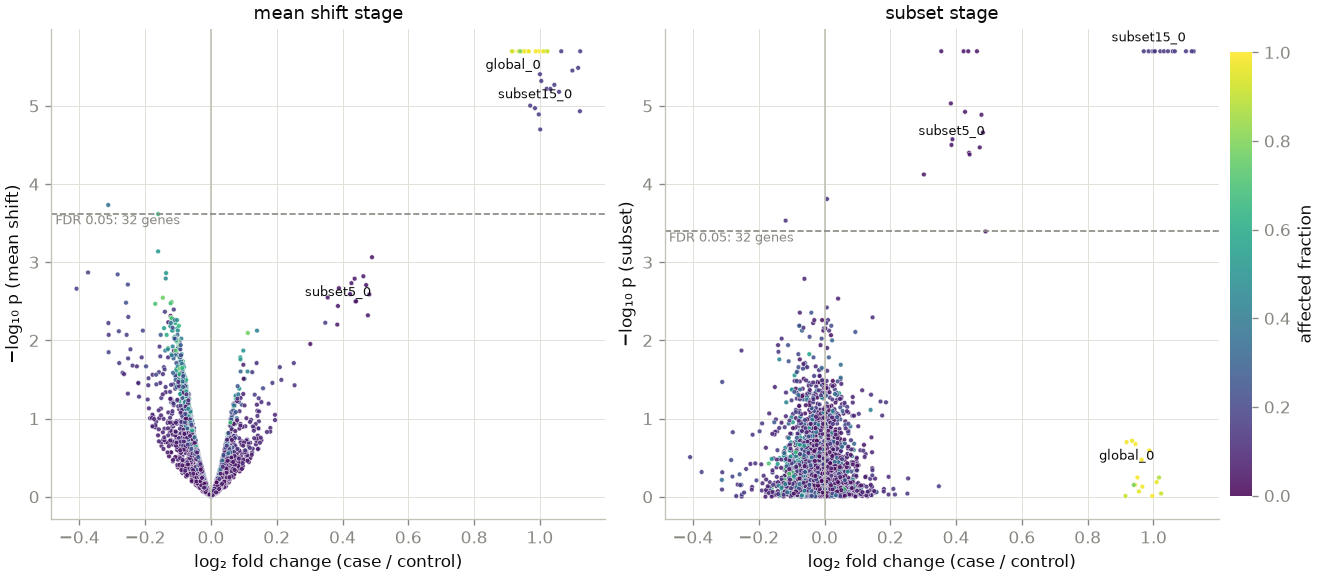
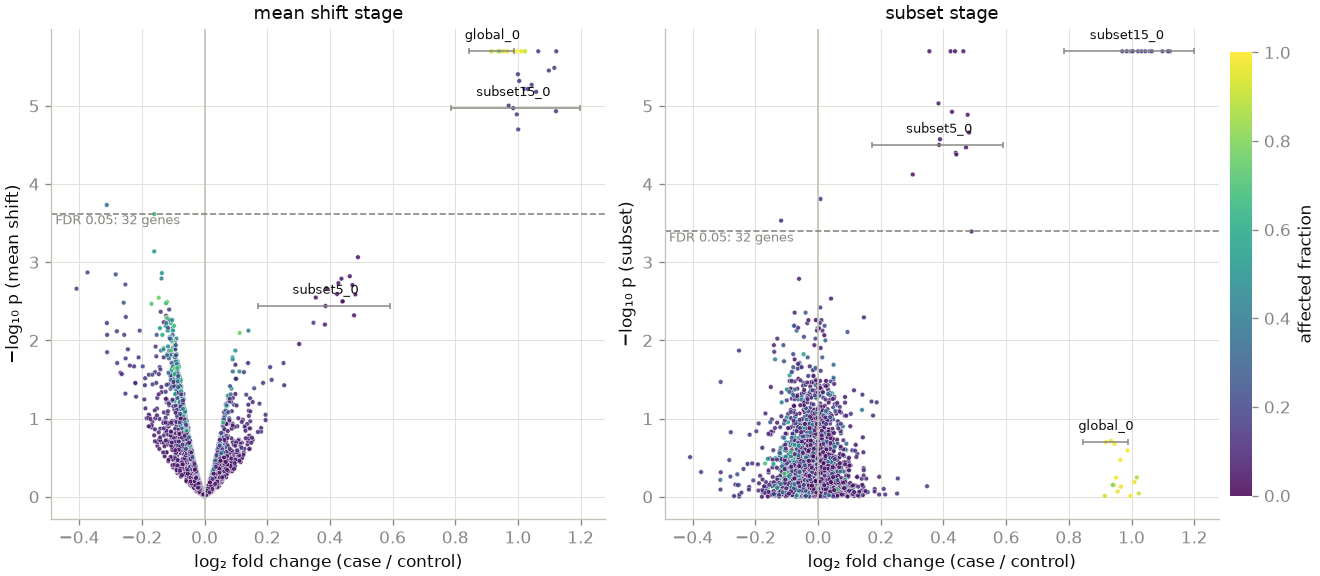
C7: labels get placed, not merely offset
label=n names the top n genes, and on a real cohort those n land in a tight
cluster -- thousands of genes tie at the p-value floor, so the most significant
share a position and their text stacks. C2 made it visibly worse by drawing
error bars through the stack, which is why the plan put this last.

Replaced the alternate-above-and-below rule, which could only ever separate
two, with a greedy slot assignment: most significant first, each label taking
the first of twelve candidate positions whose box clears every box already
placed, falling back to the furthest slot when none is free. Priority matches
_label_mask's own ranking, so the gene a reader most wants named gets the best
position -- straight above.

Measured, not asserted from the algorithm. Overlapping label pairs on the
README's dataset, before -> after:

  volcano, mean-shift stage,  8 labels   24 -> 1
  volcano, subset stage,      8 labels   28 -> 0
  two-stage plot,             8 labels   24 -> 0
  subset magnitude vs affected fraction, 12 labels   25 -> 3

That last row is the honest limit and is documented as one: twelve labels on
near-coincident points need more width than the cluster has, and no placement
rule invents space. adjustText was not brought in -- it would not have fixed
that row either, and it would have been a fifth optional dependency.

The arithmetic runs in normalized axis units in the data layer and converts
back to data coordinates, so BOTH BACKENDS PLACE TEXT IDENTICALLY and neither
[…]

diff --git a/tests/test_plotting.py b/tests/test_plotting.py
@@ -781,7 +781,7 @@ def test_both_backends_label_by_the_metadata_column(res_meta, backend):
         assert any(t.startswith("SYM") for t in texts)
         assert not any(t.startswith("ENSG") for t in texts)
     else:
-        labels = [t for tr in fig.data if tr.mode == "text" for t in (tr.text or [])]
+        labels = [str(t) for tr in fig.data if tr.mode == "text" for t in np.asarray(tr.text)]
         assert labels and all(str(t).startswith("SYM") for t in labels)
         # The hover carries the requested columns as text, ahead of the numbers.
         cloud = fig.data[0]
@@ -791,6 +791,85 @@ def test_both_backends_label_by_the_metadata_column(res_meta, backend):
     assert wade.plot_gene(res_meta, gene=["ENSG00006"], meta="gene_name",
                           backend=backend) is not None
     assert wade.plot_stages(res_meta, label=2, meta="gene_name", backend=backend) is not None
+
+
+# ---------------------------------------------------------------------------
+# Label de-collision
+
+
+def _overlapping_label_pairs(data):
+    """How many pairs of drawn labels overlap, in the normalized units the
+    placement reasons in. The figure's actual defect, counted."""
+    import itertools
+
+    from wade.plotting.data import _LABEL_H, _LABEL_W, _axis_span, _label_positions
+
+    idx, dx, dy = _label_positions(data)
+    x = np.asarray(data.x, dtype=np.float64)
+    y = np.asarray(data.y, dtype=np.float64)
+    x0, xw = _axis_span(x)
+    y0, yw = _axis_span(y)
+    u = (x[idx] + dx - x0) / xw
+    v = (y[idx] + dy - y0) / yw
+    return sum(1 for a, b in itertools.combinations(range(idx.size), 2)
+               if abs(u[a] - u[b]) < _LABEL_W and abs(v[a] - v[b]) < _LABEL_H)
+
+
+def test_labels_are_placed_without_colliding(res):
+    """The alternate-above-and-below scheme this replaced left 24 overlapping
+    pairs out of 8 labels on this data; the slot assignment leaves 0–1. Numbers
+    and method are in ``docs/plotting.md``."""
+    for d in (P.volcano_data(res, "mean_shift", label=8),
+              P.volcano_data(res, "subset", label=8),
+              P.stages_data(res, label=8)):
+        assert _overlapping_label_pairs(d) <= 1
+
+    # Displacement is bounded, because there are no leader lines to reconnect a
+    # label that wandered: at most the furthest slot, on each axis.
+    from wade.plotting.data import _LABEL_H, _LABEL_SLOTS, _LABEL_W, _axis_span, _label_positions
+    d = P.volcano_data(res, "subset", label=12)
+    idx, dx, dy = _label_positions(d)
+    _, xw = _axis_span(np.asarray(d.x, dtype=np.float64))
+    _, yw = _axis_span(np.asarray(d.y, dtype=np.float64))
+    assert np.abs(dx).max() <= max(abs(sx) for sx, _ in _LABEL_SLOTS) * _LABEL_W * xw + 1e-12
+    assert np.abs(dy).max() <= max(abs(sy) for _, sy in _LABEL_SLOTS) * _LABEL_H * yw + 1e-12
+
+
+def test_label_placement_is_deterministic_and_prioritises_the_top_gene(res):
+    from wade.plotting.data import _LABEL_H, _axis_span, _label_positions
+
+    d = P.volcano_data(res, "subset", label=6)
+    a, b = _label_positions(d), _label_positions(d)
+    for first, second in zip(a, b):
+        np.testing.assert_array_equal(first, second)
+    # The most significant labelled gene keeps the best slot: straight above.
+    idx, dx, dy = a
+    k = int(np.argmax(np.nan_to_num(d.y[idx], nan=-np.inf)))
+    _, yw = _axis_span(np.asarray(d.y, dtype=np.float64))
+    assert dx[k] == pytest.approx(0.0)
+    assert dy[k] == pytest.approx(_LABEL_H * yw)
+
+
+@pytest.mark.parametrize("backend", P.available_backends())
+def test_both_backends_place_labels_at_the_same_resolved_positions(res, backend):
+    """The layer's promise is that a figure says the same thing in either
+    backend; the placement is computed once, in the data layer, for that reason."""
+    from wade.plotting.data import _label_positions
+
+    d = P.volcano_data(res, "subset", label=5)
+    idx, dx, dy = _label_positions(d)
+    want = sorted(zip(np.round(d.x[idx] + dx, 9), np.round(d.y[idx] + dy, 9)))
+    fig = wade.plot_volcano(res, "subset", label=5, backend=backend)
+    if backend == "matplotlib":
+        # The FDR annotation is an ax.text too; only the gene labels count.
+        wanted = set(map(str, d.display[idx]))
+        got = sorted((round(a.get_position()[0], 9), round(a.get_position()[1], 9))
+                     for a in fig.axes[0].texts if a.get_text() in wanted)
+    else:
+        [tr] = [t for t in fig.data if t.mode == "text"]
+        got = sorted(zip(np.round(np.asarray(tr.x, float), 9),
+                         np.round(np.asarray(tr.y, float), 9)))
+    assert got == want
 
 
 # ---------------------------------------------------------------------------

diff --git a/src/wade/plotting/data.py b/src/wade/plotting/data.py
@@ -517,17 +517,83 @@ def _label_mask(y: np.ndarray, gene: np.ndarray, label, tiebreak=None) -> np.nda
     return np.isin(gene, list(wanted))
 
 
-def _label_positions(data) -> tuple[np.ndarray, np.ndarray]:
-    """Labelled indices and, for each, whether the text goes above or below.
+#: A label's assumed extent as a fraction of the axis range — roughly ten
+#: characters wide and one line tall at the sizes these figures default to. The
+#: data layer has no font metrics and no pixel size, so this is a calibration
+#: rather than a measurement, and it is deliberately a little generous:
+#: overlapping labels read worse than slightly over-spread ones.
+_LABEL_W, _LABEL_H = 0.070, 0.036
 
-    Genes at a p-value floor share a y, so consecutive labels along x
-    alternate sides. Cheap, deterministic, and enough for the *selective*
-    labelling this layer does; dense labelling belongs to the hover.
+#: Where a label may sit, in units of its own extent from the point, best
+#: first: directly above, directly below, the four diagonals, then a ring
+#: further out. Capped at a couple of label-heights so a label stays visibly
+#: next to its point — there are no leader lines to reconnect it.
+_LABEL_SLOTS = (
+    (0.0, 1.0), (0.0, -1.0),
+    (1.0, 0.6), (-1.0, 0.6), (1.0, -0.6), (-1.0, -0.6),
+    (0.0, 2.1), (0.0, -2.1),
+    (1.5, 1.6), (-1.5, 1.6), (1.5, -1.6), (-1.5, -1.6),
+)
+
+
+def _axis_span(v: np.ndarray) -> tuple[float, float]:
+    """An axis's finite origin and width, never zero — the normalizer that lets
+    label geometry be reasoned about in units of the plot rather than of the
+    data."""
+    finite = v[np.isfinite(v)]
+    if finite.size == 0:
+        return 0.0, 1.0
+    lo, hi = float(finite.min()), float(finite.max())
+    return lo, (hi - lo) or 1.0
+
+
+def _label_positions(data) -> tuple[np.ndarray, np.ndarray, np.ndarray]:
+    """Labelled indices and each label's offset, in **data coordinates**.
+
+    Selective labelling still collides. On a real cohort thousands of genes tie
+    at the p-value floor, so the labelled ones land in a tight cluster and their
+    text stacks into an unreadable smear; drawing the bootstrap intervals (C2)
+    made it worse by putting bars through it. Alternating above and below — what
+    this did before — only ever separates two.
+
+    A greedy slot assignment instead: labels are placed **most significant
+    first**, each taking the first candidate in :data:`_LABEL_SLOTS` whose box
+    clears every box already placed, and falling back to the last slot when
+    nothing is free, because a displaced overlap still reads better than a
+    centred one. Priority matches :func:`_label_mask`'s own ranking, so the gene
+    a reader most wants named gets the best position.
+
+    The arithmetic is in normalized axis units and is converted back on the way
+    out, so **both backends place text identically** and neither needs font
+    metrics. Both clouds' axes are linear, which is what makes a data-coordinate
+    offset the right currency.
     """
     idx = np.flatnonzero(data.labelled)
-    idx = idx[np.argsort(data.x[idx], kind="stable")]
-    above = (np.arange(idx.size) % 2) == 0
-    return idx, above
+    if idx.size == 0:
+        return idx, np.zeros(0), np.zeros(0)
+    x = np.asarray(data.x, dtype=np.float64)
+    y = np.asarray(data.y, dtype=np.float64)
+    x0, xw = _axis_span(x)
+    y0, yw = _axis_span(y)
+    u = (x[idx] - x0) / xw
+    v = (y[idx] - y0) / yw
+    # Most significant first: highest y, ties broken by the larger |x|.
+    order = np.lexsort((-np.abs(np.nan_to_num(x[idx], nan=0.0)),
+                        -np.nan_to_num(v, nan=-np.inf)))
+    du = np.zeros(idx.size)
+    dv = np.zeros(idx.size)
+    placed: list[tuple[float, float]] = []
+    for k in order:
+        cu = cv = np.nan
+        for sx, sy in _LABEL_SLOTS:
+            cu = u[k] + sx * _LABEL_W
+            cv = v[k] + sy * _LABEL_H
+            if not any(abs(cu - pu) < _LABEL_W and abs(cv - pv) < _LABEL_H
+                       for pu, pv in placed):
+                break
+        placed.append((cu, cv))
+        du[k], dv[k] = cu - u[k], cv - v[k]
+    return idx, du * xw, dv * yw
 
 
 @dataclass(frozen=True)

diff --git a/src/wade/plotting/_plotly.py b/src/wade/plotting/_plotly.py
@@ -183,17 +183,16 @@ def _cloud_trace(data, go, theme, *, name="genes"):
 
 
 def _labels_plotly(data, go, fig, theme, row=None, col=None):
-    idx, above = _label_positions(data)
+    idx, dx, dy = _label_positions(data)
     if idx.size == 0:
         return
-    for sel, pos in ((above, "top center"), (~above, "bottom center")):
-        if not sel.any():
-            continue
-        fig.add_trace(go.Scatter(
-            x=data.x[idx[sel]], y=data.y[idx[sel]], mode="text", text=data.display[idx[sel]],
-            textposition=pos, textfont=dict(size=11, color=theme.ink),
-            hoverinfo="skip", showlegend=False,
-        ), row=row, col=col)
+    # The offsets already carry the placement, so the text is centred on its
+    # resolved position rather than anchored to a side of the point.
+    fig.add_trace(go.Scatter(
+        x=data.x[idx] + dx, y=data.y[idx] + dy, mode="text", text=data.display[idx],
+        textposition="middle center", textfont=dict(size=11, color=theme.ink),
+        hoverinfo="skip", showlegend=False,
+    ), row=row, col=col)
 
 
 def _intervals_plotly(data, go, fig, theme, row=None, col=None):

diff --git a/src/wade/plotting/_matplotlib.py b/src/wade/plotting/_matplotlib.py
@@ -105,11 +105,10 @@ def _scatter_mpl(ax, data, theme, *, colorbar_ax=None, fig=None):
             cb.set_label(spec["label"], color=theme.ink)
             cb.outline.set_visible(False)
             cb.ax.tick_params(colors=theme.muted, labelcolor=theme.muted)
-    idx, above = _label_positions(data)
-    for i, up in zip(idx, above):
-        ax.annotate(str(data.display[i]), (data.x[i], data.y[i]), xytext=(0, 4 if up else -4),
-                    textcoords="offset points", ha="center", va="bottom" if up else "top",
-                    fontsize=8, color=theme.ink)
+    idx, dx, dy = _label_positions(data)
+    for i, ddx, ddy in zip(idx, dx, dy):
+        ax.annotate(str(data.display[i]), (data.x[i] + ddx, data.y[i] + ddy),
+                    ha="center", va="center", fontsize=8, color=theme.ink)
     return sc
 
 

diff --git a/docs/plotting.md b/docs/plotting.md
@@ -226,6 +226,35 @@ too, so `label=["MYC"]` finds MYC. You name what you see.
 * **Anything the statistic depends on.** If a change here would alter a
   reported number, it belongs in the core, not here.
 
+### Labels are placed, not just offset
+
+`label=n` names the top *n* genes, and on a real cohort those *n* land in a
+tight cluster — thousands of genes tie at the p-value floor, so the most
+significant ones share a position and their text stacks into a smear. Drawing
+the bootstrap intervals made it worse, by putting error bars through it.
+
+Labels are now placed by a greedy slot assignment: most significant first, each
+taking the first candidate position that clears every label already placed.
+It runs in normalized axis units in the data layer, so **both backends place
+text identically** and neither needs font metrics, and displacement is capped at
+a couple of label-heights — there are no leader lines, so a label has to stay
+next to its point.
+
+Overlapping label pairs on the README's dataset, alternate-above-and-below
+against the slot assignment:
+
+| figure | labels | before | after |
+|---|---|---|---|
+| volcano, mean-shift stage | 8 | 24 | **1** |
+| volcano, subset stage | 8 | 28 | **0** |
+| two-stage plot | 8 | 24 | **0** |
+| subset magnitude vs affected fraction | 12 | 25 | **3** |
+
+The last row is the honest limit: twelve labels on a cluster of near-coincident
+points need more width than the cluster has, and no placement rule invents
+space. Label fewer, or read the rest off the hover — `adjustText` was not
+brought in for it, and would not have fixed that row either.
+
 ## Themes
 
 Every figure takes `theme=`, and three are built in:
